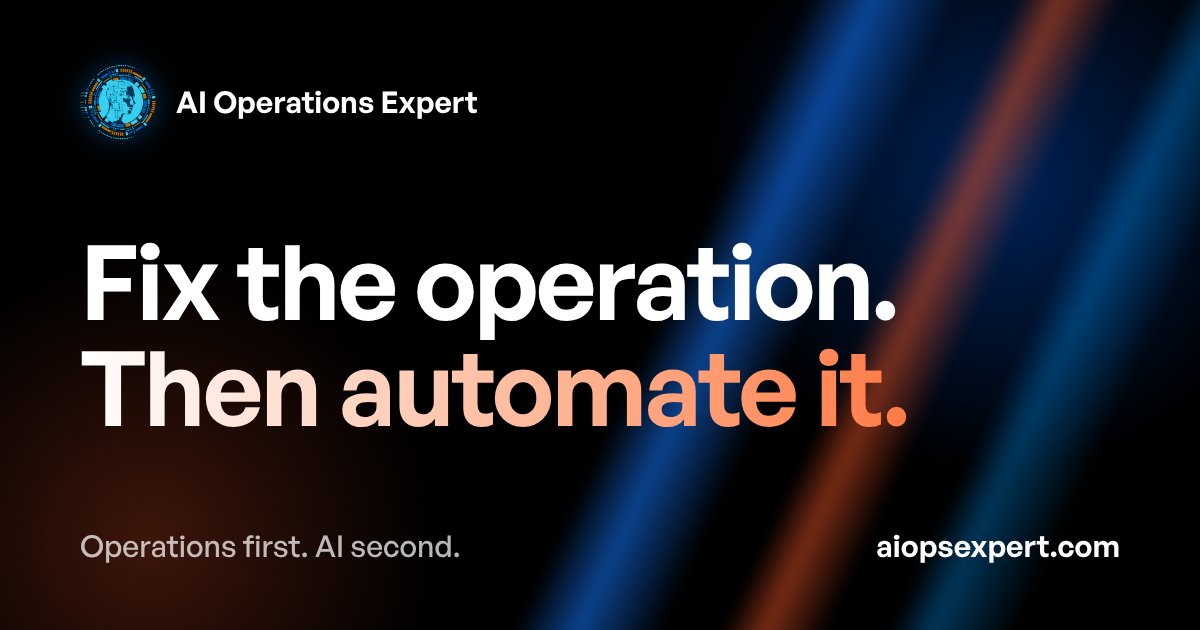
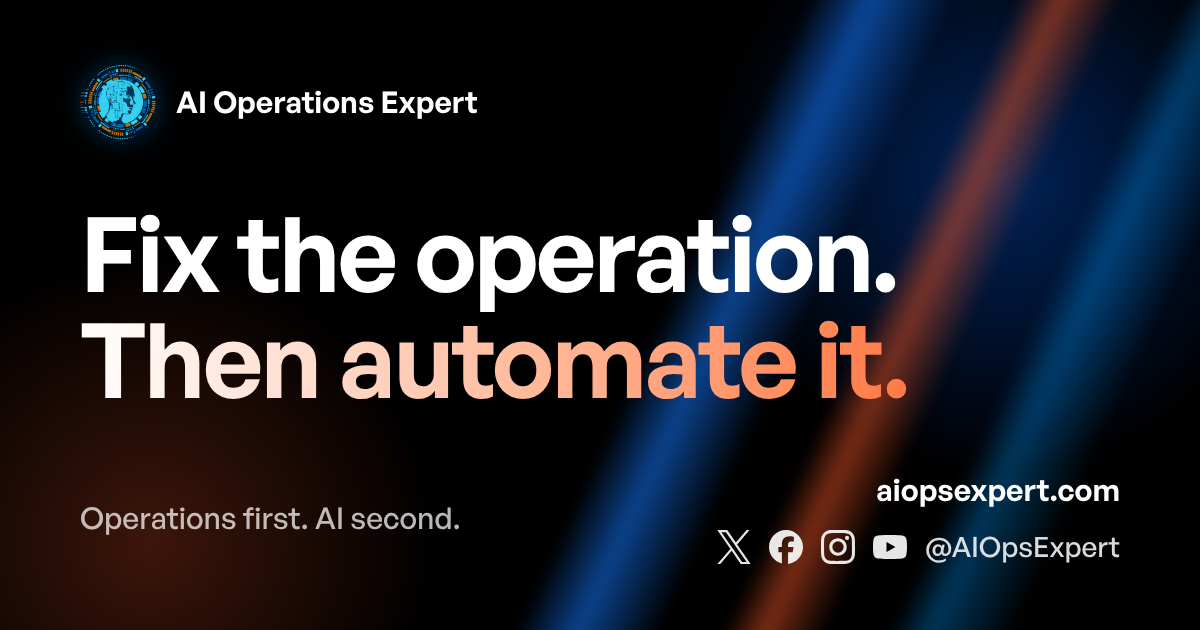
Add business-profile structured data and social handles to share image
- JSON-LD on every page: Organization (name, url, logo, email, phone, the four
  brand social profiles) and Person (Daniel Schley, founder, personal profiles).
  Uses only facts already shown on the site.
- Share image now shows the platform icons and @AIOpsExpert handle.

Claude-Session: https://claude.ai/code/session_01LF1gQYupvTXmiE674nibfU

diff --git a/src/app/layout.tsx b/src/app/layout.tsx
@@ -46,6 +46,36 @@ export const metadata: Metadata = {
   twitter: { card: "summary_large_image" },
 };
 
+// Structured data (JSON-LD): tells Google who the business is and which profiles belong to it.
+// Only facts already shown on the site are used here.
+const brandProfiles = site.socials.filter((s) => "brand" in s && s.brand).map((s) => s.href);
+const personProfiles = site.socials.filter((s) => !("brand" in s && s.brand)).map((s) => s.href);
+const structuredData = {
+  "@context": "https://schema.org",
+  "@graph": [
+    {
+      "@type": "Organization",
+      "@id": `${site.url}/#organization`,
+      name: site.name,
+      url: site.url,
+      logo: `${site.url}/brand/emblem.png`,
+      email: site.email,
+      telephone: site.phone,
+      founder: { "@id": `${site.url}/#daniel-schley` },
+      sameAs: brandProfiles,
+    },
+    {
+      "@type": "Person",
+      "@id": `${site.url}/#daniel-schley`,
+      name: site.owner,
+      jobTitle: "Founder",
+      worksFor: { "@id": `${site.url}/#organization` },
+      url: `${site.url}/about`,
+      sameAs: personProfiles,
+    },
+  ],
+};
+
 export const viewport: Viewport = {
   themeColor: "#000000",
   colorScheme: "dark",
@@ -60,6 +90,10 @@ export default function RootLayout({ children }: LayoutProps<"/">) {
         <noscript>
           <style>{`[data-reveal]{opacity:1!important;transform:none!important}`}</style>
         </noscript>
+        <script
+          type="application/ld+json"
+          dangerouslySetInnerHTML={{ __html: JSON.stringify(structuredData).replace(/</g, "\\u003c") }}
+        />
         <MotionProvider>
           <Atmosphere />
           <ScrollProgress />

diff --git a/src/lib/site.ts b/src/lib/site.ts
@@ -18,12 +18,13 @@ export const site = {
   photo: "/images/daniel-schley.jpg",
   intro:
     "I spent twenty years building and running operating companies — from a $0 to $265M healthcare network to a $1B real estate platform. Now I help owner-led businesses put AI to work the same way I ran operations: with clear owners, measured results, and controls that keep it from breaking.",
+  // `brand: true` marks the company's own profiles; the others are Daniel's personal links.
   socials: [
     { label: "LinkedIn", href: "https://www.linkedin.com/in/danielschley" },
-    { label: "X", href: "https://x.com/AIOpsExpert" },
-    { label: "Facebook", href: "https://www.facebook.com/AiOpsExpert/" },
-    { label: "Instagram", href: "https://www.instagram.com/aiopsexpert/" },
-    { label: "YouTube", href: "https://www.youtube.com/@AIOPSEXPERT" },
+    { label: "X", brand: true, href: "https://x.com/AIOpsExpert" },
+    { label: "Facebook", brand: true, href: "https://www.facebook.com/AiOpsExpert/" },
+    { label: "Instagram", brand: true, href: "https://www.instagram.com/aiopsexpert/" },
+    { label: "YouTube", brand: true, href: "https://www.youtube.com/@AIOPSEXPERT" },
     { label: "danielschley.com", href: "https://danielschley.com" },
     { label: "GitHub", href: "https://github.com/Bizgrowth" },
   ],
